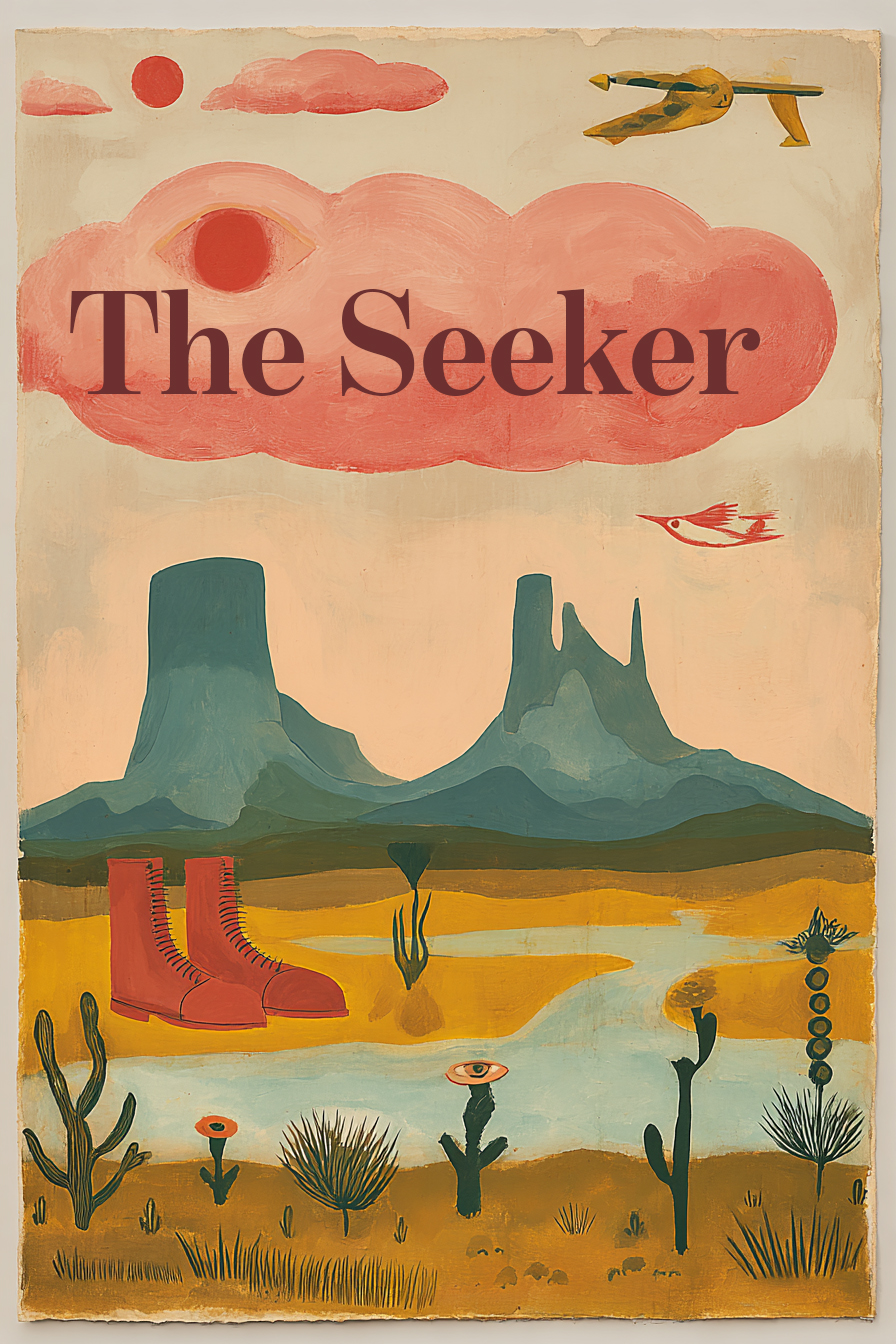
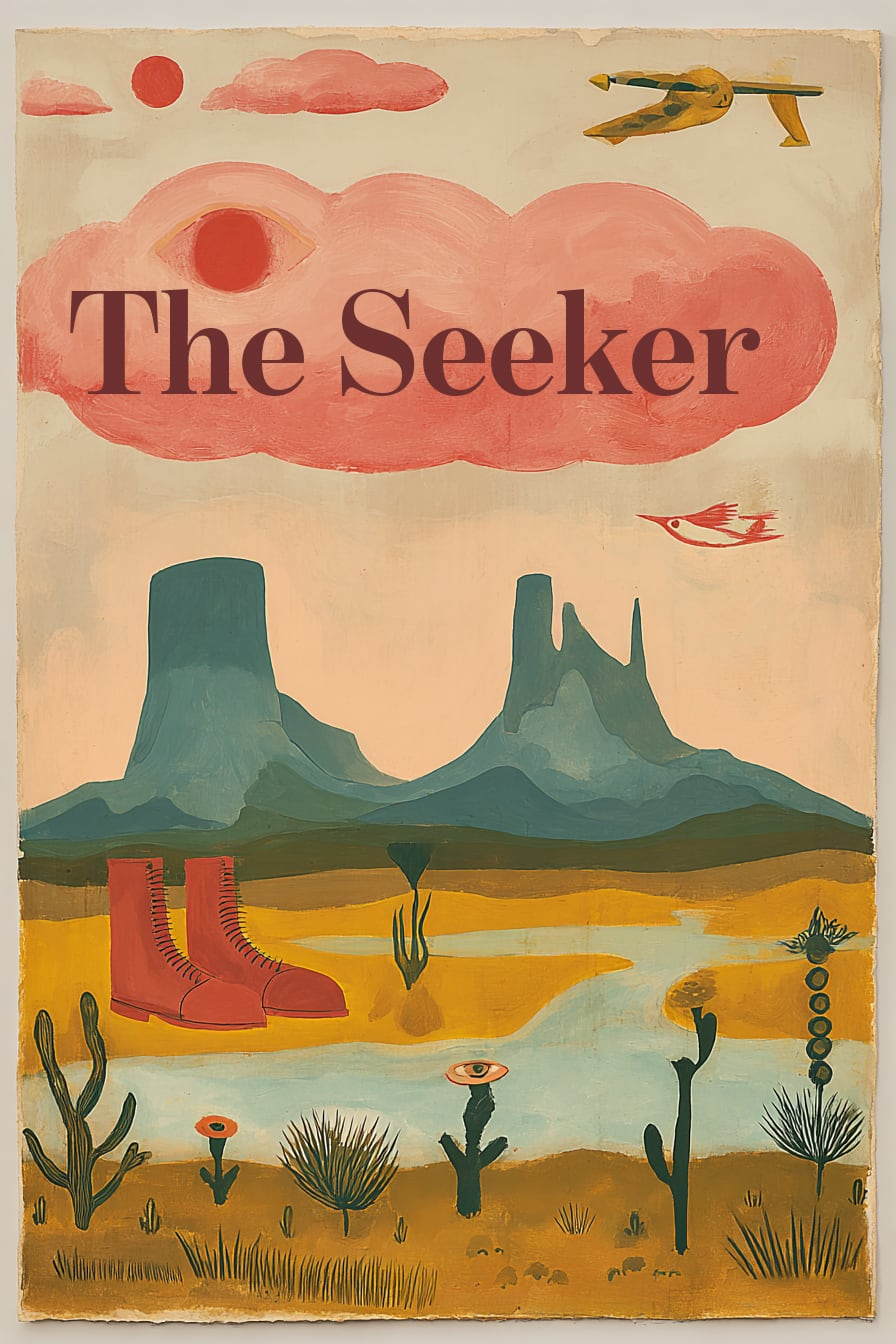
Compress site imagery

diff --git a/app/(public)/travel-self/TravelSelfQuestionnaire.tsx b/app/(public)/travel-self/TravelSelfQuestionnaire.tsx
@@ -53,14 +53,14 @@ const POLES = [1, 2, 3, 4, 5, 6] as const;
 const STEPS = [1, 2, 3, 4, 5, 6, 7, 8] as const;
 const POSITION_WEIGHT = ["100%", "62%", "26%", "26%", "62%", "100%"] as const;
 const QUESTION_IMAGES = {
-  1: "/assets/travel-self/travel-self-q01.png",
-  2: "/assets/travel-self/travel-self-q02.png",
-  3: "/assets/travel-self/travel-self-q03.png",
-  4: "/assets/travel-self/travel-self-q04.png",
-  5: "/assets/travel-self/travel-self-q05.png",
-  6: "/assets/travel-self/travel-self-q06.png",
-  7: "/assets/travel-self/travel-self-q07.png",
-  8: "/assets/travel-self/travel-self-q08.png",
+  1: "/assets/travel-self/travel-self-q01.webp",
+  2: "/assets/travel-self/travel-self-q02.webp",
+  3: "/assets/travel-self/travel-self-q03.webp",
+  4: "/assets/travel-self/travel-self-q04.webp",
+  5: "/assets/travel-self/travel-self-q05.webp",
+  6: "/assets/travel-self/travel-self-q06.webp",
+  7: "/assets/travel-self/travel-self-q07.webp",
+  8: "/assets/travel-self/travel-self-q08.webp",
 } as const;
 
 type QuestionnaireStyle = CSSProperties & {
